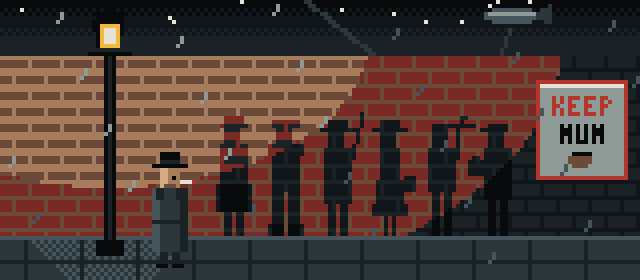
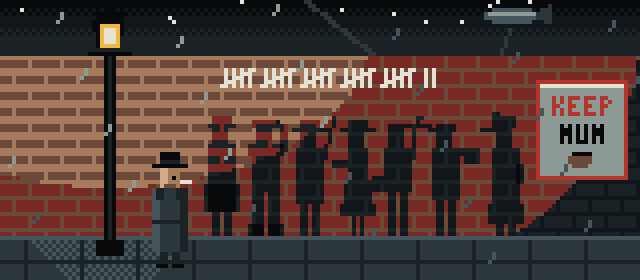
scene-r4-mi concept C: shadows' small moves, a German officer's shadow last, chalk tally to 27; not built in

Changed region(s): [[0.3125, 0.4, 0.9062, 0.8571], [0.3438, 0.2286, 0.6875, 0.3143], [0.875, 0.2, 1.0, 0.3429]]

diff --git a/concepts/scene-r4-mi/shadows.block.js b/concepts/scene-r4-mi/shadows.block.js
@@ -1,9 +1,11 @@
   // ---- "One Man, Many Shadows", London, 1942: Garbo under a street lamp; on the brick wall behind him his shadow is joined,
-  //      one by one, by the shadows of his imaginary agents (a sailor, a soldier, a woman, a waiter, a workman), who then fade
-  //      back into the one man who invented them. A 1942 "KEEP MUM" poster, rain, a barrage balloon.
-  //      Loop: sh 12x8, ra 8x1, lf 4x6, ce 2x12, sb 8x6 -> every period divides 96 ticks (8 s). State 0 = all the shadows.
-  //      HOLD: sh: 8, ra: 1, lf: 6, ce: 12, sb: 6
-  CH.shadows = { sh: 12, ra: 8, lf: 4, ce: 2, sb: 8 };
+  //      one by one, by the shadows of his imaginary agents (a sailor, a soldier, a woman, a waiter, a workman), each with a small
+  //      move of its own, and last by a German officer looking back at them all: the Germans believed every one. A chalk tally
+  //      on the wall counts the network up to 27, then they all fade back into the one man who invented them.
+  //      A 1942 "KEEP MUM" poster, rain, a barrage balloon.
+  //      Loop: sh 16x6, ra 8x1, lf 4x6, ce 2x12, sb 8x6 -> every period divides 96 ticks (8 s). State 0 = everyone on the wall.
+  //      HOLD: sh: 6, ra: 1, lf: 6, ce: 12, sb: 6
+  CH.shadows = { sh: 16, ra: 8, lf: 4, ce: 2, sb: 8 };
   const SHADE = { l: "m", m: "s", s: "r", r: "E", A: "m", W: "g", g: "H", H: "C", C: "E", E: "D", D: "K", K: "K", R: "r", B: "N", N: "Q", Q: "K", O: "E", V: "O", G: "O" };
   S.shadows = (p) => {
     const c = Cv(160, 70, "K"), sh = p.sh || 0, ra = p.ra || 0, lf = p.lf || 0, ce = p.ce || 0, sb = p.sb || 0;
@@ -13,7 +15,7 @@
     const ang = [-.6, -.4, -.2, 0, .2, 0, -.2, -.4][sb]; for (let t = 0; t < 16; t++) { const x = 92 + Math.round(Math.sin(ang) * t * 2.2), y = 13 - t; if (y >= 0) { c.p(x, y, "C"); c.p(x + 1, y, "C"); } }
     c.e(128, 4, 7, 2.4, "H"); c.r(122, 3, 133, 3, "g"); c.poly([[134, 3], [138, 1], [138, 6], [134, 5]], "C"); c.l(127, 7, 125, 13, "C");   // barrage balloon on its cable
     // brick wall, lit from the lamp
-    const lvl = (x, y) => { const d = Math.hypot((x - LX) * .62, (y - LY) * 1.1); return d < 40 ? 2 : d < 70 ? 1 : 0; };   // the light reaches along the wall, where the shadows fall
+    const lvl = (x, y) => { const d = Math.hypot((x - LX) * .62, (y - LY) * 1.1); return d < 40 ? 2 : d < 82 ? 1 : 0; };   // the light reaches along the wall, where the shadows fall
     for (let y = 14; y <= 58; y++) for (let x = 0; x < 160; x++) {
       const row = (y - 14) >> 2, mortar = (y - 14) % 4 === 3 || (x + (row % 2) * 4) % 8 === 7, L = lvl(x, y);
       c.p(x, y, mortar ? ["D", "s", "m"][L] : (y - 14) % 4 === 0 && L === 2 ? "m" : ["E", "r", "s"][L]); }
@@ -29,14 +31,24 @@
     const R = (x0, y0, x1, y1) => { for (let y = y0; y <= y1; y++) for (let x = x0; x <= x1; x++) dk(x, y); };
     const yb = 58, KINDS = {
       man: (x) => { R(x - 3, yb - 27, x + 3, yb - 27); R(x - 2, yb - 29, x + 2, yb - 28); R(x - 2, yb - 26, x + 1, yb - 23); R(x - 3, yb - 22, x + 3, yb - 6); R(x - 4, yb - 12, x + 4, yb - 6); R(x - 2, yb - 5, x - 1, yb); R(x + 1, yb - 5, x + 2, yb); },   // hat and overcoat
-      sailor: (x) => { R(x - 3, yb - 28, x + 3, yb - 27); R(x - 2, yb - 26, x + 1, yb - 23); R(x - 4, yb - 22, x + 4, yb - 20); R(x - 3, yb - 19, x + 3, yb - 11); R(x - 3, yb - 10, x - 1, yb); R(x + 1, yb - 10, x + 3, yb); R(x - 4, yb - 2, x - 1, yb); R(x + 1, yb - 2, x + 4, yb); },   // flat cap, collar, bell-bottoms
-      soldier: (x) => { R(x - 4, yb - 26, x + 4, yb - 26); R(x - 2, yb - 28, x + 2, yb - 27); R(x - 2, yb - 25, x + 1, yb - 22); R(x - 3, yb - 21, x + 3, yb - 8); R(x - 2, yb - 7, x - 1, yb); R(x + 1, yb - 7, x + 2, yb); for (let k = 0; k < 12; k++) dk(x + 4 + (k >> 2), yb - 19 - k); },   // tin hat, rifle on the shoulder
-      woman: (x) => { R(x - 4, yb - 26, x + 4, yb - 26); R(x - 2, yb - 28, x + 2, yb - 27); R(x - 2, yb - 25, x + 1, yb - 22); R(x - 2, yb - 21, x + 2, yb - 14); R(x - 3, yb - 13, x + 3, yb - 8); R(x - 4, yb - 7, x + 4, yb - 5); dk(x - 1, yb - 4); dk(x - 1, yb - 3); dk(x - 1, yb - 2); dk(x - 1, yb - 1); dk(x - 1, yb); dk(x + 1, yb - 4); dk(x + 1, yb - 3); dk(x + 1, yb - 2); dk(x + 1, yb - 1); dk(x + 1, yb); R(x + 4, yb - 14, x + 6, yb - 11); },   // wide-brimmed hat, skirt, handbag
-      waiter: (x) => { R(x - 2, yb - 27, x + 1, yb - 22); R(x - 3, yb - 21, x + 3, yb - 11); R(x - 2, yb - 10, x - 1, yb); R(x + 1, yb - 10, x + 2, yb); R(x + 4, yb - 26, x + 4, yb - 19); R(x + 2, yb - 27, x + 8, yb - 27); dk(x + 5, yb - 29); dk(x + 6, yb - 29); dk(x + 5, yb - 28); },   // tray held up high
-      worker: (x) => { R(x - 2, yb - 27, x + 2, yb - 26); R(x - 4, yb - 26, x - 3, yb - 26); R(x - 2, yb - 25, x + 1, yb - 22); R(x - 3, yb - 21, x + 3, yb - 9); R(x - 2, yb - 8, x - 1, yb); R(x + 1, yb - 8, x + 2, yb); R(x - 7, yb - 18, x - 4, yb - 15); dk(x - 5, yb - 19); dk(x - 6, yb - 19); } };   // flat cap with peak, a tool bag
-    const PEOPLE = [["man", 58], ["sailor", 71], ["soldier", 84], ["woman", 97], ["waiter", 110], ["worker", 124]];
-    const vis = [5, 5, 5, 4, 3, 2, 1, 0, 1, 2, 3, 4][sh];
-    PEOPLE.forEach(([k, x], i) => { if (i <= vis) KINDS[k](x); });
+      sailor: (x, q) => { R(x - 3, yb - 28, x + 3, yb - 27); R(x - 2, yb - 26, x + 1, yb - 23); R(x - 4, yb - 22, x + 4, yb - 20); R(x - 3, yb - 19, x + 3, yb - 11); R(x - 3, yb - 10, x - 1, yb); R(x + 1, yb - 10, x + 3, yb); R(x - 4, yb - 2, x - 1, yb); R(x + 1, yb - 2, x + 4, yb);
+        if (q) { R(x + 4, yb - 27, x + 5, yb - 21); dk(x + 3, yb - 28); } },                                          // flat cap, collar, bell-bottoms; touches his cap
+      soldier: (x, q) => { R(x - 4, yb - 26, x + 4, yb - 26); R(x - 2, yb - 28, x + 2, yb - 27); R(x - 2, yb - 25, x + 1, yb - 22); R(x - 3, yb - 21, x + 3, yb - 8); R(x - 2, yb - 7, x - 1, yb); R(x + 1, yb - 7, x + 2, yb);
+        for (let k = 0; k < 12; k++) dk(x + 4 + (q ? k >> 3 : k >> 2), yb - 19 - k); },                              // tin hat; shifts the rifle on his shoulder
+      woman: (x, q) => { R(x - 4, yb - 26, x + 4, yb - 26); R(x - 2, yb - 28, x + 2, yb - 27); R(x - 2, yb - 25, x + 1, yb - 22); R(x - 2, yb - 21, x + 2, yb - 14); R(x - 3, yb - 13, x + 3, yb - 8); R(x - 4, yb - 7, x + 4, yb - 5);
+        for (let y = yb - 4; y <= yb; y++) { dk(x - 1, y); dk(x + 1, y); } R(x + 4, yb - 14, x + 6, yb - 11); if (q) R(x - 6, yb - 18, x - 3, yb - 17); else R(x - 3, yb - 20, x - 3, yb - 14); },   // wide-brimmed hat, skirt, handbag; checks her watch
+      waiter: (x, q) => { const t = q ? 2 : 0; R(x - 2, yb - 27, x + 1, yb - 22); R(x - 3, yb - 21, x + 3, yb - 11); R(x - 2, yb - 10, x - 1, yb); R(x + 1, yb - 10, x + 2, yb); R(x + 4, yb - 26 - t, x + 4, yb - 19); R(x + 2, yb - 27 - t, x + 8, yb - 27 - t); dk(x + 5, yb - 29 - t); dk(x + 6, yb - 29 - t); dk(x + 5, yb - 28 - t); },   // lifts his tray
+      worker: (x, q) => { R(x - 2, yb - 27, x + 2, yb - 26); R(x - 4, yb - 26, x - 3, yb - 26); R(x - 2, yb - 25, x + 1, yb - 22); R(x - 3, yb - 21, x + 3, yb - 9); R(x - 2, yb - 8, x - 1, yb); R(x + 1, yb - 8, x + 2, yb);
+        if (q) { R(x + 5, yb - 21, x + 8, yb - 18); dk(x + 4, yb - 21); dk(x + 4, yb - 20); } else { R(x + 4, yb - 18, x + 7, yb - 15); dk(x + 4, yb - 19); } },   // flat cap with peak; swings his tool bag
+      officer: (x) => { R(x - 3, yb - 29, x + 2, yb - 28); dk(x - 3, yb - 30); dk(x - 2, yb - 30); R(x - 3, yb - 27, x + 2, yb - 27); R(x - 6, yb - 26, x - 3, yb - 26); R(x - 2, yb - 26, x + 1, yb - 22);   // peaked cap, visor toward the others
+        R(x - 3, yb - 21, x + 3, yb - 8); R(x - 4, yb - 7, x + 4, yb - 3); R(x + 3, yb - 17, x + 4, yb - 13); R(x - 2, yb - 2, x - 1, yb); R(x + 1, yb - 2, x + 2, yb); } };   // long greatcoat, hands behind his back, boots
+    const PEOPLE = [["man", 55], ["sailor", 66], ["soldier", 77], ["woman", 89], ["waiter", 99], ["worker", 111], ["officer", 126]];
+    const vis = [6, 6, 6, 6, 5, 4, 3, 2, 1, 0, 0, 1, 2, 3, 4, 5][sh];                                        // up one at a time, all of them together, then down
+    PEOPLE.forEach(([k, x], i) => { if (i <= vis) KINDS[k](x, (sh + i) % 2); });
+    // the chalk tally: each agent adds marks, five agents make 27, the size of Garbo's invented network
+    const marks = [0, 5, 10, 16, 21, 27][Math.min(vis, 5)];
+    for (let m = 0; m < marks; m++) { const g = (m / 5) | 0, j = m % 5, gx0 = 56 + g * 10;
+      if (j < 4) c.r(gx0 + j * 2, 17, gx0 + j * 2, 21, "W"); else c.l(gx0 - 1, 21, gx0 + 7, 17, "W"); }
     // the lamp post and its lantern, flickering a little
     c.r(26, 14, 28, 62, "K"); c.r(27, 14, 27, 62, "E"); c.r(24, 60, 30, 63, "K"); c.r(22, 13, 32, 13, "K");
     c.poly([[23, 5], [31, 5], [30, 12], [24, 12]], "K"); c.r(25, 6, 29, 11, lf === 2 ? "m" : "A"); c.r(26, 7, 28, 10, lf === 1 ? "A" : "W"); c.r(24, 3, 30, 4, "K"); c.p(27, 2, "K");

diff --git a/CLAUDE.md b/CLAUDE.md
@@ -99,7 +99,7 @@ Going forward, use git tags for restore points.
   - [x] `scene-r5-bp`: **DONE 2026-11-13: the teacher chose concept A (`hutdecrypt`). It is built into `src/art.js` as `S.hutdecrypt` / `CH.hutdecrypt`, with its keys added to `HOLD`, and `SCEN["BP-4"].scene` is `"hutdecrypt"`. It matches `hutdecrypt.gif` on every tick, loops seamlessly every 2 s, and BP was tested. The old scene is still in `art.js`; to undo, point the scenario back at it.** History, for reference: **CONCEPT A READY FOR TEACHER REVIEW (Logan's Claude, 2026-11-13); not built in.** **CONCEPT B ALSO READY FOR TEACHER REVIEW (Logan's Claude, 2026-11-13).** "The bait is taken" (BP's own scene, separate from MI's): night in a Bletchley hut. An analyst at a lamp-lit trestle table writes up a decrypt beside a steaming mug; behind her a Mediterranean wall map shows arrows marching toward Sardinia and Greece, the false targets Germany believed; a teleprinter feeds paper at the right. Check: the arrows stand for German moves toward Greece and Sardinia in general, no specific unit or date; the room is generic Bletchley, not a documented hut. HOLD: `ba: 6, bb: 8, bc: 6, bd: 8, be: 6, bf: 12`; 2-second loop. To give BP and MI different scenes, point `SCEN["BP-4"].scene` at `"hutdecrypt"` and `SCEN["MI-4"].scene` at `"mincedesk"`. Preview: `concepts/scene-r5-bp/hutdecrypt.gif` (live at https://adean-edu.github.io/codebreakers/concepts/scene-r5-bp/hutdecrypt.gif), still `hutdecrypt-still.png`, source `hutdecrypt.js` (`S.hutdecrypt` / `CH.hutdecrypt`, art.js style; add its `HOLD` entries, point the scenario's `scene` at `"hutdecrypt"`, rebuild, test the role). **CONCEPT B (2026-11-13), not built in:** "The decrypt": an extreme close-up with no people. A German decrypt sheet lies under a lamp, headed FUNKSPRUCH ("radio message"). GRIECHENLAND (Greece) is underlined in red pencil, and SARDINIEN (Sardinia) is still printing, with a blinking cursor after it. Teleprinter tape runs along the bottom of the frame. The lamp flickers, the pencil tip moves, and the tape creeps sideways. To check: the text and layout are illustrative and are not a real decrypt. HOLD entries: `ya: 6, yb: 8, yc: 12, yd: 6`. `tape.js` carries a subset of art.js's `FONT`; use the art.js one. Preview: `concepts/scene-r5-bp/tape.gif` (live at https://adean-edu.github.io/codebreakers/concepts/scene-r5-bp/tape.gif), still `tape-still.png`, source `tape.js` (`S.tape` / `CH.tape`). Current scene, for reference: Operation Mincemeat, BP round 5. Scene `mincemeat` (a briefcase on a beach at dawn), **shared with `r5-mi`**. Consider giving BP and MI different scenes: BP sees the story through German messages at Bletchley, MI built the deception.
   - [x] `scene-r5-mi`: **DONE 2026-11-13: the teacher chose concept A (`mincedesk`). It is built into `src/art.js` as `S.mincedesk` / `CH.mincedesk`, with its keys added to `HOLD`, and `SCEN["MI-4"].scene` is `"mincedesk"`. It matches `mincedesk.gif` on every tick, loops seamlessly every 2 s, and MI was tested. The old scene is still in `art.js`; to undo, point the scenario back at it.** History, for reference: **CONCEPT A READY FOR TEACHER REVIEW (Logan's Claude, 2026-11-13); not built in.** **CONCEPT B ALSO READY FOR TEACHER REVIEW (Logan's Claude, 2026-11-13).** "Building Major Martin" (MI's own scene, separate from BP's): a lamp-lit desk at night where the planners assemble the fake officer's life: the official briefcase with its chain, forged letters, a framed photo of his "fiancée" Pam, theatre ticket stubs, keys and coins, ink and pens, with a Mediterranean map on the wall. A hand writes, cigarette smoke curls, the lamp light breathes. No body is shown. Check: the wall map is generic. HOLD: `xa: 12, xb: 6, xc: 8`; 2-second loop. Preview: `concepts/scene-r5-mi/mincedesk.gif` (live at https://adean-edu.github.io/codebreakers/concepts/scene-r5-mi/mincedesk.gif), still `mincedesk-still.png`, source `mincedesk.js` (`S.mincedesk` / `CH.mincedesk`, art.js style; add its `HOLD` entries, point the scenario's `scene` at `"mincedesk"`, rebuild, test the role). **CONCEPT B (2026-11-13), not built in:** "Delivery": an exterior at sea. HMS Seraph lies surfaced off the Spanish coast near Huelva before dawn on 30 April 1943. Officers in greatcoats stand on deck with the long steel canister, while lookouts watch from the bridge; the ratings had been sent below. A grey-gold dawn rises over a dark coast with a few lights. The sea washes over the deck. No body is shown. To check: the officer count, uniforms and deck layout are artistic choices. HOLD entries: `za: 8, zb: 12, zc: 6, zd: 8`. Preview: `concepts/scene-r5-mi/seraph.gif` (live at https://adean-edu.github.io/codebreakers/concepts/scene-r5-mi/seraph.gif), still `seraph-still.png`, source `seraph.js` (`S.seraph` / `CH.seraph`). Current scene, for reference: Operation Mincemeat, MI round 5. Same `mincemeat` scene as `r5-bp`.
   - [x] `scene-r5-fa`: **DONE 2026-11-13: the teacher chose concept B ("use bug.gif for r5-fa"). It's built into `src/art.js` as `S.bug` / `CH.bug`, `SCEN["FA-4"].scene` is `"bug"`, and `HOLD` has `rv: 4, rd: 6, lt: 2`.** It matches `concepts/scene-r5-fa/bug.gif` on all 24 ticks, loops seamlessly every 2 s, and FA was tested. The old `S.rocket` is still in `art.js` (unused); to undo, set the FA-4 scene back to `"rocket"`. Note: channel `lt` (the lantern) has no drawing in the concept, so no lantern shows, the same as in the GIF. History below, for reference. "The pickup at Motyl": an RAF Dakota on the Home Army landing field at night, 25–26 July 1944 (Operation Most III). Lanterns flicker along the strip, the propeller turns, and a sack of V-2 parts is passed up into the lit cargo door while a lookout watches the trees. See `concepts/scene-r5-fa/motyl.gif` (live at https://adean-edu.github.io/codebreakers/concepts/scene-r5-fa/motyl.gif) and the still `motyl-still.png`. The source `motyl.js` is written as `S.motyl` / `CH.motyl` in `src/art.js` style: 2-second seamless loop (channels pr 3×1, fl 4×2, tw 2×6, ld 2×12; add `pr: 1, tw: 6, ld: 12` to `HOLD`), state 0 is the still. To build it in: paste `S.motyl`/`CH.motyl` into `art.js`, point `SCEN["FA-4"].scene` at `"motyl"`, rebuild, and test FA. **CONCEPT B (2026-11-13), not built in:** "The find on the Bug River": dusk on the riverbank near Sarnaki, May 1944. The test V-2 lies almost intact in the reeds in its black-and-white paint, nose pushed into the mud, with the furrow it ploughed behind it. One Home Army man kneels by the fins with a lantern, one points, one arrives with a rope. The river glints, the reeds sway, the lantern flickers. See `concepts/scene-r5-fa/bug.gif` (live at https://adean-edu.github.io/codebreakers/concepts/scene-r5-fa/bug.gif), `bug-still.png`, and source `bug.js` (`S.bug` / `CH.bug`; 2-second loop, channels rv 3×4, rd 2×6, lt 4×2; add `rv: 4, rd: 6, lt: 2` to `HOLD`; point `SCEN["FA-4"].scene` at `"bug"`). Teacher to pick A, B, or ask for another. Current scene, for reference: The Rocket Secret, FA round 5. Scene `rocket` (a courier's flashlight on a crashed rocket in a forest).
-  - [ ] `scene-r4-mi`: **REOPENED 2026-11-13: after seeing `madrid` in the game, the teacher said "No I do not like this. Start from scratch." `madrid` stays live until a replacement is chosen. CONCEPT C READY FOR TEACHER REVIEW, not built in:** "One Man, Many Shadows": London at night, 1942. Garbo stands under a street lamp in hat and overcoat, smoking, by a 1942 "KEEP MUM" poster. On the brick wall behind him his shadow is joined one by one by the shadows of imaginary agents (a sailor, a soldier, a woman with a handbag, a waiter, a workman), who then fade back to his alone. Rain, a flickering lamp, a barrage balloon, a searchlight. Check: the shadows are symbolic, not specific agents from Garbo's network. 8-second loop (sh 12×8, ra 8×1, lf 4×6, ce 2×12, sb 8×6); state 0 is all the shadows. Preview: `concepts/scene-r4-mi/shadows.gif`, still `shadows-still.png`, source `shadows.block.js` (`S.shadows` / `CH.shadows`, plus a `SHADE` table; add `sh: 8, ra: 1, lf: 6, ce: 12, sb: 6` to `HOLD`; point `SCEN["MI-3"].scene` at `"shadows"`). Earlier: [x] `scene-r4-mi`: **DONE 2026-11-13: the teacher chose concept B, "Madrid Believes It" (`madrid`). It's built into `src/art.js` as `S.madrid` / `CH.madrid`, `HOLD` has `mt: 4, lw: 6, mf: 6`, and `SCEN["MI-3"].scene` is `"madrid"`. It matches `madrid.gif` on all 96 ticks, loops seamlessly every 8 s, and MI was tested. The old `S.garbo` is still in `art.js`; to undo, point MI-3 back at `"garbo"`.** History: concept A was "The Letter Between the Lines": a London office at night in 1942. Garbo writes a harmless-looking letter at a lamp-lit desk while his MI5 case officer Tomás Harris holds another page up to a green banker's lamp, and the report in secret ink appears between the visible lines, then fades as he lowers it. Also: cigarette smoke, a stack of agent index cards with the top one ticked, blackout curtains with rain and a searchlight in the gap. Check: in 1942 Garbo's reports went mainly as letters with secret writing between the lines, carried by courier via Lisbon (radio came later); the room is generic, not a documented office. 8-second loop (gp 12×8, gw 4×3, gs 6×4, gx 8×6, gr 4×2); state 0 is the page up with the secret writing showing. Preview: `concepts/scene-r4-mi/letter.gif`, still `letter-still.png`. Source: `letter.block.js` is ready to paste into `src/art.js` as is (`S.letter` / `CH.letter`); add `gp: 8, gw: 3, gs: 4, gx: 6, gr: 2` to `HOLD`, point `SCEN["MI-3"].scene` at `"letter"`, rebuild, and test MI. The teacher asked for another idea after seeing this one. **CONCEPT B (2026-11-13), not built in:** "Madrid Believes It": a split screen. On the left, London at night: Garbo seals a letter and slides it off his desk. On the right, Madrid: the same letter slides in, a German officer reads it, stamps it, and files it under ARABEL (Garbo's German code name), and another pin lights on his map of Britain. The letter is never in both halves at once. Check: the officer is generic (no name or rank shown); the map pins are illustrative; the stamp and file are symbolic. 8-second loop (mt 24×4, lw 8×6, mf 4×6); state 0 is the stamp coming down. Preview: `concepts/scene-r4-mi/madrid.gif`, still `madrid-still.png`, source `madrid.block.js` (`S.madrid` / `CH.madrid`; add `mt: 4, lw: 6, mf: 6` to `HOLD`; point `SCEN["MI-3"].scene` at `"madrid"`). Current scene: `garbo` (a desk with a typewriter and a wall map of agent pins).
+  - [ ] `scene-r4-mi`: **REOPENED 2026-11-13: after seeing `madrid` in the game, the teacher said "No I do not like this. Start from scratch." `madrid` stays live until a replacement is chosen. CONCEPT C READY FOR TEACHER REVIEW, not built in:** "One Man, Many Shadows": London at night, 1942. Garbo stands under a street lamp in hat and overcoat, smoking, by a 1942 "KEEP MUM" poster. On the brick wall behind him his shadow is joined one by one by the shadows of imaginary agents (a sailor, a soldier, a woman with a handbag, a waiter, a workman), who then fade back to his alone. Rain, a flickering lamp, a barrage balloon, a searchlight. **Revised 2026-11-13 at the teacher's request ("do 5, 6, 1"):** each agent's shadow makes a small in-character move (the sailor touches his cap, the soldier shifts his rifle, the woman checks her watch, the waiter lifts his tray, the workman swings his bag); a German officer's shadow (peaked cap, greatcoat, facing the others) appears last, since the Germans believed every one; and a chalk tally on the wall counts up to 27 as the five agents appear (the size of Garbo's invented network), then clears as they fade. Check: the shadows are symbolic types, not specific agents; 27 is the commonly cited number of Garbo's fictitious agents. 8-second loop (sh 16×6, ra 8×1, lf 4×6, ce 2×12, sb 8×6); state 0 is everyone on the wall with the tally at 27. HOLD is now `sh: 6`. Preview: `concepts/scene-r4-mi/shadows.gif`, still `shadows-still.png`, source `shadows.block.js` (`S.shadows` / `CH.shadows`, plus a `SHADE` table; add `sh: 6, ra: 1, lf: 6, ce: 12, sb: 6` to `HOLD`; point `SCEN["MI-3"].scene` at `"shadows"`). Earlier: [x] `scene-r4-mi`: **DONE 2026-11-13: the teacher chose concept B, "Madrid Believes It" (`madrid`). It's built into `src/art.js` as `S.madrid` / `CH.madrid`, `HOLD` has `mt: 4, lw: 6, mf: 6`, and `SCEN["MI-3"].scene` is `"madrid"`. It matches `madrid.gif` on all 96 ticks, loops seamlessly every 8 s, and MI was tested. The old `S.garbo` is still in `art.js`; to undo, point MI-3 back at `"garbo"`.** History: concept A was "The Letter Between the Lines": a London office at night in 1942. Garbo writes a harmless-looking letter at a lamp-lit desk while his MI5 case officer Tomás Harris holds another page up to a green banker's lamp, and the report in secret ink appears between the visible lines, then fades as he lowers it. Also: cigarette smoke, a stack of agent index cards with the top one ticked, blackout curtains with rain and a searchlight in the gap. Check: in 1942 Garbo's reports went mainly as letters with secret writing between the lines, carried by courier via Lisbon (radio came later); the room is generic, not a documented office. 8-second loop (gp 12×8, gw 4×3, gs 6×4, gx 8×6, gr 4×2); state 0 is the page up with the secret writing showing. Preview: `concepts/scene-r4-mi/letter.gif`, still `letter-still.png`. Source: `letter.block.js` is ready to paste into `src/art.js` as is (`S.letter` / `CH.letter`); add `gp: 8, gw: 3, gs: 4, gx: 6, gr: 2` to `HOLD`, point `SCEN["MI-3"].scene` at `"letter"`, rebuild, and test MI. The teacher asked for another idea after seeing this one. **CONCEPT B (2026-11-13), not built in:** "Madrid Believes It": a split screen. On the left, London at night: Garbo seals a letter and slides it off his desk. On the right, Madrid: the same letter slides in, a German officer reads it, stamps it, and files it under ARABEL (Garbo's German code name), and another pin lights on his map of Britain. The letter is never in both halves at once. Check: the officer is generic (no name or rank shown); the map pins are illustrative; the stamp and file are symbolic. 8-second loop (mt 24×4, lw 8×6, mf 4×6); state 0 is the stamp coming down. Preview: `concepts/scene-r4-mi/madrid.gif`, still `madrid-still.png`, source `madrid.block.js` (`S.madrid` / `CH.madrid`; add `mt: 4, lw: 6, mf: 6` to `HOLD`; point `SCEN["MI-3"].scene` at `"madrid"`). Current scene: `garbo` (a desk with a typewriter and a wall map of agent pins).
   - Done for reference: `scene-r4-fa` (`leak`) was rebuilt on 2026-11-13 as the A/B bait-test scene. Use it as the quality bar.
 
 ## Known open items
